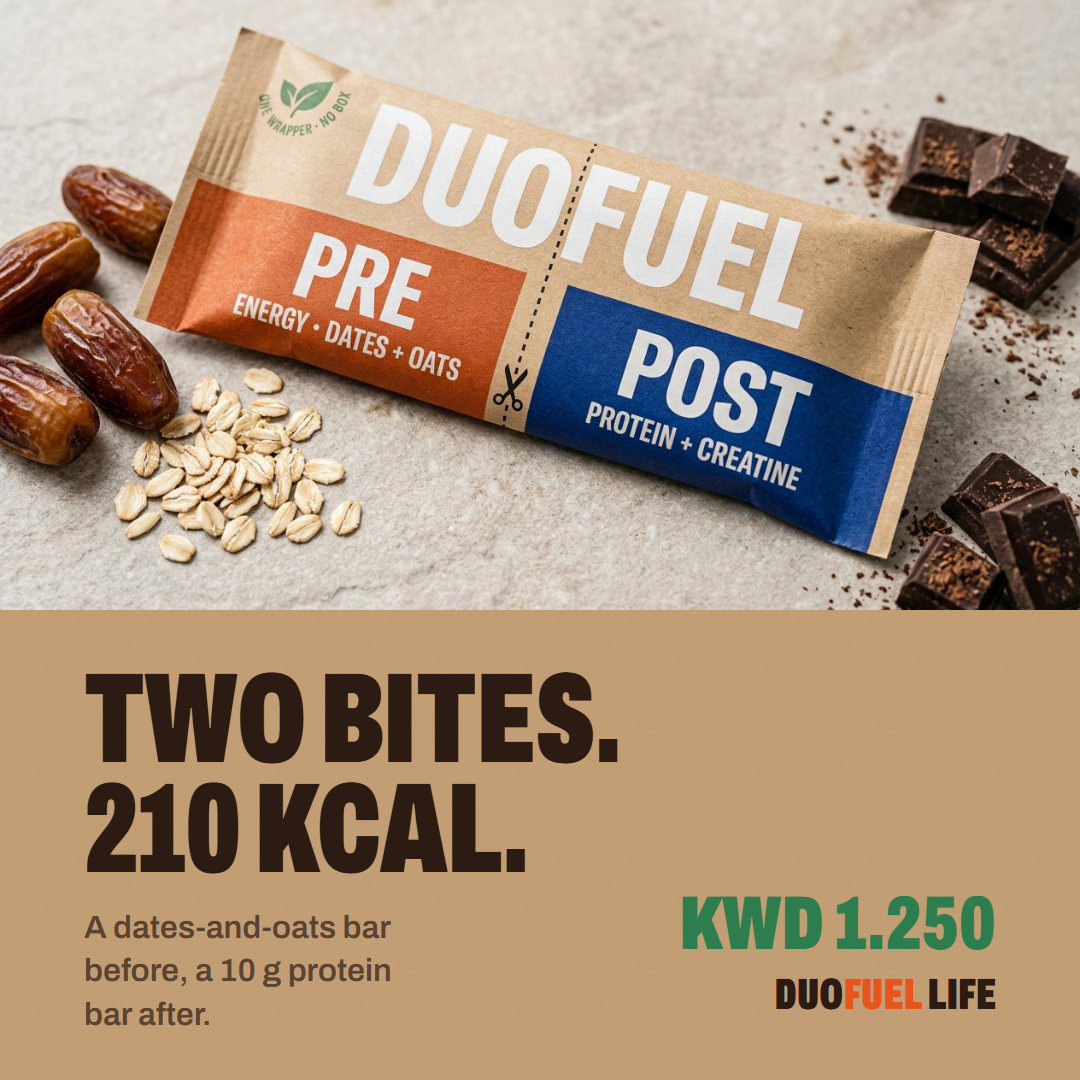
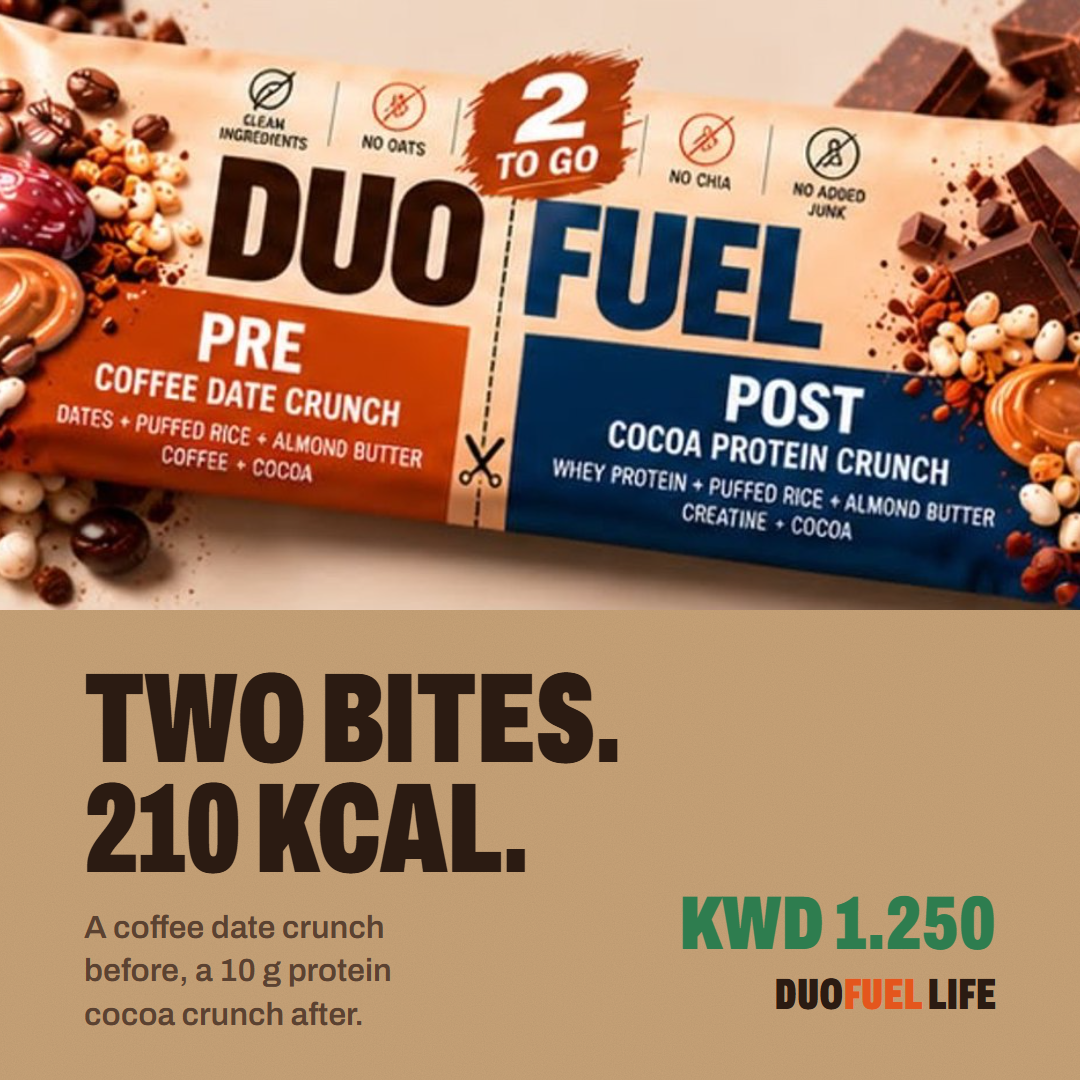
DUOFUEL concept: v7 recipe (Coffee Date Crunch / Cocoa Protein Crunch), new pack shot, caffeine and allergen notes

diff --git a/work/duofuel/index.html b/work/duofuel/index.html
@@ -4,7 +4,7 @@
   <meta charset="utf-8">
   <meta name="viewport" content="width=device-width, initial-scale=1, viewport-fit=cover">
   <title>DUOFUEL — Fuel before. Refuel after. · Concept by Q8Pixel</title>
-  <meta name="description" content="DUOFUEL is a concept snack for Kuwait in two packs, Gym and Life: one wrapper, two sealed bars, one before and one after.">
+  <meta name="description" content="DUOFUEL is a concept snack for Kuwait in two packs, Gym and Life: a Coffee Date Crunch bar before and a Cocoa Protein Crunch bar after, in one wrapper.">
   <meta name="robots" content="noindex">
   <meta name="theme-color" content="#c8a378">
   <meta name="color-scheme" content="light">
@@ -84,7 +84,7 @@
       <div class="hero-grid wrap">
         <div class="hero-half half-pre">
           <p class="hero-word" aria-hidden="true"><span data-i18n="hero.pre1">Fuel</span><span data-i18n="hero.pre2">before.</span></p>
-          <p class="hero-note"><span class="v-gym" data-i18n="hero.preNote">Dates and oats, 30–60 minutes before you train.</span><span class="v-life" data-i18n="hero.preNoteLife">A light dates-and-oats bite before a walk, a class or a long afternoon.</span></p>
+          <p class="hero-note"><span class="v-gym" data-i18n="hero.preNote">Dates, puffed rice and coffee, 30–60 minutes before you train.</span><span class="v-life" data-i18n="hero.preNoteLife">A light coffee-date crunch before a walk, a class or a long afternoon.</span></p>
         </div>
         <div class="hero-half half-post">
           <p class="hero-word" aria-hidden="true"><span data-i18n="hero.post1">Refuel</span><span data-i18n="hero.post2">after.</span></p>
@@ -103,7 +103,7 @@
             <div class="wrap-face">
               <span class="pf-brand">DUOFUEL</span>
               <span class="pf-name">PRE</span>
-              <span class="pf-sub"><span class="v-gym" data-i18n="pack.preSub">Energy · 30 g carbs</span><span class="v-life" data-i18n="pack.preSubLife">Dates + oats · 95 kcal</span></span>
+              <span class="pf-sub"><span class="v-gym" data-i18n="pack.preSub">Energy · 30 g carbs</span><span class="v-life" data-i18n="pack.preSubLife">Coffee date crunch · 95 kcal</span></span>
             </div>
           </div>
           <button class="tear" type="button" data-tear aria-pressed="false">
@@ -138,7 +138,7 @@
         <h2 id="range-title" class="h2" data-i18n="range.title">Two packs for two kinds of day</h2>
         <div class="range-grid">
           <article class="range-item range-gym">
-            <img src="img/pack-gym.jpg" width="905" height="648" loading="lazy" alt="DUOFUEL Gym pack in a black wrapper, held in a gloved hand in a gym" data-i18n-attr="alt:range.gymAlt">
+            <img src="img/pack-2togo.jpg" width="1440" height="527" loading="lazy" alt="DUOFUEL pack: PRE Coffee Date Crunch and POST Cocoa Protein Crunch in one wrapper" data-i18n-attr="alt:range.gymAlt">
             <div class="range-body">
               <h3>DUOFUEL Gym</h3>
               <p data-i18n="range.gymFor">For people who lift, run or play hard three or more times a week.</p>
@@ -153,7 +153,7 @@
             </div>
           </article>
           <article class="range-item range-life">
-            <img src="img/pack-sm.jpg" width="632" height="424" loading="lazy" alt="DUOFUEL Life pack in a kraft-paper wrapper beside dates, oats, almonds and dark chocolate" data-i18n-attr="alt:range.lifeAlt">
+            <img src="img/pack-2togo.jpg" width="1440" height="527" loading="lazy" alt="DUOFUEL pack: PRE Coffee Date Crunch and POST Cocoa Protein Crunch in one wrapper, beside dates, puffed rice, coffee beans, almonds and chocolate" data-i18n-attr="alt:range.lifeAlt">
             <div class="range-body">
               <h3>DUOFUEL Life</h3>
               <p data-i18n="range.lifeFor">For busy days, walks and classes, when you are counting calories.</p>
@@ -179,14 +179,14 @@
         <p class="lead"><span class="v-gym" data-i18n="day.lead">A typical after-work session in Kuwait, from the gym desk to the bin.</span><span class="v-life" data-i18n="day.leadLife">A workday with a walk at the end, without reaching for something sweet.</span></p>
         <ol class="timeline v-gym">
           <li><time>17:30</time><h3 data-i18n="day.s1">Pick up a pack</h3><p data-i18n="day.s1t">At the gym front desk, or from your Week Pack at home.</p></li>
-          <li class="is-pre"><time>17:35</time><h3 data-i18n="day.s2">Tear and eat PRE</h3><p data-i18n="day.s2t">Tear along the line. The orange bar gives 30 g of quick carbohydrate from dates and oats.</p></li>
+          <li class="is-pre"><time>17:35</time><h3 data-i18n="day.s2">Tear and eat PRE</h3><p data-i18n="day.s2t">Tear along the line. The orange bar gives 30 g of quick carbohydrate from dates and puffed rice, with a little coffee.</p></li>
           <li><time>18:15</time><h3 data-i18n="day.s3">Train</h3><p data-i18n="day.s3t">POST stays sealed in its half of the wrapper, in your bag.</p></li>
           <li class="is-post"><time>19:20</time><h3 data-i18n="day.s4">Eat POST</h3><p data-i18n="day.s4t">20 g protein and your daily 3 g of creatine, in one bar.</p></li>
           <li class="is-leaf"><time>19:25</time><h3 data-i18n="day.s5">Bin the wrapper</h3><p data-i18n="day.s5t">One wrapper, no box, no second wrapper.</p></li>
         </ol>
         <ol class="timeline v-life">
           <li><time>07:30</time><h3 data-i18n="day.l1">Pack in your bag</h3><p data-i18n="day.l1t">Picked up with the groceries at your co-op.</p></li>
-          <li class="is-pre"><time>10:30</time><h3 data-i18n="day.l2">PRE with your coffee</h3><p data-i18n="day.l2t">95 kcal of dates and oats to carry you to lunch.</p></li>
+          <li class="is-pre"><time>10:30</time><h3 data-i18n="day.l2">PRE with your coffee</h3><p data-i18n="day.l2t">95 kcal of dates, puffed rice and coffee to carry you to lunch.</p></li>
           <li><time>17:00</time><h3 data-i18n="day.l3">Walk, padel or a class</h3><p data-i18n="day.l3t">POST waits, sealed, in its half of the wrapper.</p></li>
           <li class="is-post"><time>18:00</time><h3 data-i18n="day.l4">POST instead of dessert</h3><p data-i18n="day.l4t">10 g protein at about 115 kcal.</p></li>
           <li class="is-leaf"><time>18:05</time><h3 data-i18n="day.s5">Bin the wrapper</h3><p data-i18n="day.s5t">One wrapper, no box, no second wrapper.</p></li>
@@ -201,25 +201,25 @@
         <div class="inside-split">
           <article class="spec spec-pre">
             <h3><span class="spec-tag">PRE</span> <span data-i18n="inside.preH">Before</span></h3>
-            <p data-i18n="inside.preText">Soft, chewy and quick to digest. Made from food-safe dates that were too small or too marked for the fruit shelf.</p>
+            <p data-i18n="inside.preText">Coffee Date Crunch: crisp, quick to digest, with a coffee kick. Made from food-safe dates that were too small or marked for the fruit shelf.</p>
             <dl class="facts v-gym">
               <div><dt data-i18n="f.weight">Bar weight</dt><dd>~45 g</dd></div>
               <div><dt data-i18n="f.carbs">Carbohydrate</dt><dd>30 g</dd></div>
               <div><dt data-i18n="f.energy">Energy</dt><dd>~170 kcal</dd></div>
-              <div><dt data-i18n="f.sugar">Added sugar</dt><dd>0 g</dd></div>
+              <div><dt data-i18n="f.caffeine">Caffeine (from coffee)</dt><dd>≈60 mg</dd></div>
             </dl>
             <dl class="facts v-life">
               <div><dt data-i18n="f.weight">Bar weight</dt><dd>~25 g</dd></div>
               <div><dt data-i18n="f.carbs">Carbohydrate</dt><dd>15 g</dd></div>
               <div><dt data-i18n="f.energy">Energy</dt><dd>~95 kcal</dd></div>
-              <div><dt data-i18n="f.sugar">Added sugar</dt><dd>0 g</dd></div>
+              <div><dt data-i18n="f.caffeine">Caffeine (from coffee)</dt><dd>≈35 mg</dd></div>
             </dl>
-            <p class="ingr"><strong data-i18n="f.ingr">Ingredients:</strong> <span data-i18n="inside.preIngr">surplus dates, rolled oats, almond butter, sea salt.</span></p>
+            <p class="ingr"><strong data-i18n="f.ingr">Ingredients:</strong> <span data-i18n="inside.preIngr">surplus Kuwaiti dates, puffed rice, almond butter, instant coffee, cocoa, honey or rice syrup, vanilla, salt.</span></p>
           </article>
           <div class="split-line" aria-hidden="true"></div>
           <article class="spec spec-post">
             <h3><span class="spec-tag">POST</span> <span data-i18n="inside.postH">After</span></h3>
-            <p data-i18n="inside.postText">Dense, dark and cocoa-rich. Protein when your body asks for it, plus the creatine many lifters already take as a powder.</p>
+            <p data-i18n="inside.postText">Cocoa Protein Crunch: crisp, cocoa-rich and filling. Protein when your body asks for it, plus the creatine many lifters already take as a powder.</p>
             <dl class="facts v-gym">
               <div><dt data-i18n="f.weight">Bar weight</dt><dd>~60 g</dd></div>
               <div><dt data-i18n="f.protein">Protein</dt><dd>20 g</dd></div>
@@ -232,10 +232,10 @@
               <div><dt data-i18n="f.creatine">Creatine monohydrate</dt><dd data-i18n="f.none">None</dd></div>
               <div><dt data-i18n="f.energy">Energy</dt><dd>~115 kcal</dd></div>
             </dl>
-            <p class="ingr"><strong data-i18n="f.ingr">Ingredients:</strong> <span class="v-gym" data-i18n="inside.postIngr">whey protein, dark chocolate, almonds, creatine monohydrate.</span><span class="v-life" data-i18n="inside.postIngrLife">whey protein, dark chocolate, almonds.</span></p>
+            <p class="ingr"><strong data-i18n="f.ingr">Ingredients:</strong> <span class="v-gym" data-i18n="inside.postIngr">whey protein, puffed rice, almond butter, cocoa, creatine monohydrate, rice syrup or honey, vanilla, salt; optional dark-chocolate drizzle.</span><span class="v-life" data-i18n="inside.postIngrLife">whey protein, puffed rice, almond butter, cocoa, rice syrup or honey, vanilla, salt (no creatine).</span></p>
           </article>
         </div>
-        <p class="fine" data-i18n="inside.fine">Contains milk, oats (gluten) and almonds. Values are prototype targets; final values follow lab testing. Not a meal replacement.</p>
+        <p class="fine" data-i18n="inside.fine">Contains milk and almonds, and caffeine from coffee: not for children or during pregnancy. No oats, no chia; puffed rice is naturally gluten-free but not yet certified. Values are prototype targets; final values follow lab testing. Not a meal replacement.</p>
       </div>
     </section>
 
@@ -248,7 +248,7 @@
           <ul class="promises">
             <li><svg class="icon" aria-hidden="true"><use href="#i-leaf"/></svg><div><h3 data-i18n="dates.p1">Rescued dates</h3><p data-i18n="dates.p1t">We report the kilograms of surplus dates used per 1,000 packs.</p></div></li>
             <li><svg class="icon" aria-hidden="true"><use href="#i-scale"/></svg><div><h3 data-i18n="dates.p2">One wrapper, no box</h3><p data-i18n="dates.p2t">We report the grams of packaging per pack, compared with two single bars.</p></div></li>
-            <li><svg class="icon" aria-hidden="true"><use href="#i-store"/></svg><div><h3 data-i18n="dates.p4">Made in Kuwait</h3><p data-i18n="dates.p4t">Mixed, baked and packed by a licensed food maker in Kuwait. The dates are Kuwaiti; whey and cocoa are imported, so we never say “100% Kuwaiti”.</p></div></li>
+            <li><svg class="icon" aria-hidden="true"><use href="#i-store"/></svg><div><h3 data-i18n="dates.p4">Made in Kuwait</h3><p data-i18n="dates.p4t">Mixed, pressed and packed by a licensed food maker in Kuwait. The dates are Kuwaiti; puffed rice, whey, coffee and cocoa are imported, so we never say “100% Kuwaiti”.</p></div></li>
             <li><svg class="icon" aria-hidden="true"><use href="#i-qr"/></svg><div><h3 data-i18n="dates.p3">Proof on every pack</h3><p data-i18n="dates.p3t">The QR code shows the batch, where the dates came from and the packaging weight.</p></div></li>
           </ul>
           <p class="facts-strip"><span><strong>102,213 t</strong> <span data-i18n="dates.f1">dates grown in Kuwait in 2024</span></span><span><strong>98.6 kg</strong> <span data-i18n="dates.f2">household food waste per person a year in Kuwait</span></span></p>
@@ -341,7 +341,7 @@
           <form class="vote" data-vote aria-labelledby="vote-title">
             <h3 id="vote-title" data-i18n="vote.title">Vote for the next flavour</h3>
             <label class="vote-opt"><input type="radio" name="flavour" value="cardamom"> <span data-i18n="vote.f1">Date &amp; cardamom (PRE)</span><bdi class="vote-n" data-n="cardamom"></bdi></label>
-            <label class="vote-opt"><input type="radio" name="flavour" value="coffee"> <span data-i18n="vote.f2">Chocolate &amp; Arabic coffee (POST)</span><bdi class="vote-n" data-n="coffee"></bdi></label>
+            <label class="vote-opt"><input type="radio" name="flavour" value="coffee"> <span data-i18n="vote.f2">Cocoa &amp; pistachio (POST)</span><bdi class="vote-n" data-n="coffee"></bdi></label>
             <label class="vote-opt"><input type="radio" name="flavour" value="saffron"> <span data-i18n="vote.f3">Date &amp; saffron (PRE)</span><bdi class="vote-n" data-n="saffron"></bdi></label>
             <label class="vote-opt"><input type="radio" name="flavour" value="vanilla"> <span data-i18n="vote.f4">Vanilla &amp; date caramel (POST)</span><bdi class="vote-n" data-n="vanilla"></bdi></label>
             <button class="btn btn-ink" type="submit" data-i18n="vote.go">Send my vote</button>
@@ -351,7 +351,7 @@
         <div>
           <h3 class="ff-title" data-i18n="ff.title">Free-from packs, in the plan for year 2–3</h3>
           <ul class="ff-list">
-            <li><span class="ff-name" data-i18n="ff.g">Gluten-free</span><span class="ff-swap"><span data-i18n="ff.gOut">Regular oats</span><span class="ff-arrow" aria-hidden="true"></span><span data-i18n="ff.gIn">certified gluten-free oats or puffed rice</span></span></li>
+            <li><span class="ff-name" data-i18n="ff.g">Gluten-free</span><span class="ff-swap"><span data-i18n="ff.gOut">Nothing: puffed rice is gluten-free</span><span class="ff-arrow" aria-hidden="true"></span><span data-i18n="ff.gIn">certified gluten-free puffed rice, made on a cleaned line</span></span></li>
             <li><span class="ff-name" data-i18n="ff.l">Lactose-free</span><span class="ff-swap"><span data-i18n="ff.lOut">Whey protein</span><span class="ff-arrow" aria-hidden="true"></span><span data-i18n="ff.lIn">pea and rice protein</span></span></li>
             <li><span class="ff-name" data-i18n="ff.n">Nut-free</span><span class="ff-swap"><span data-i18n="ff.nOut">Almonds</span><span class="ff-arrow" aria-hidden="true"></span><span data-i18n="ff.nIn">sunflower-seed butter and pumpkin seeds</span></span></li>
           </ul>
@@ -386,8 +386,9 @@
           <details><summary data-i18n="faq.q2">Is 3 g of creatine a day safe?</summary><p data-i18n="faq.a2">The International Society of Sports Nutrition calls 3–5 g a day effective and finds no compelling evidence of harm in healthy adults. If you have a medical condition, ask your doctor first.</p></details>
           <details><summary data-i18n="faq.q3">Does creatine work better after training?</summary><p data-i18n="faq.a3">We don't claim that. Taking it every day matters more than the hour. It sits in POST because that is when most people already have their protein.</p></details>
           <details><summary data-i18n="faq.q4">Why a paper wrapper?</summary><p data-i18n="faq.a4">One wrapper with two sealed compartments uses less material than two separately wrapped bars, and needs no box.</p></details>
-          <details><summary data-i18n="faq.q6">I have an allergy. Can I eat DUOFUEL?</summary><p data-i18n="faq.a6">Not yet: both packs contain milk, oats (gluten) and almonds, and the label says so. Gluten-free, lactose-free and nut-free versions are planned for year 2–3.</p></details>
-          <details><summary data-i18n="faq.q7">Where is DUOFUEL made?</summary><p data-i18n="faq.a7">In Kuwait, by a licensed food manufacturer working to our recipe. The dates come from Kuwaiti farms; the whey protein and cocoa are imported.</p></details>
+          <details><summary data-i18n="faq.q6">I have an allergy. Can I eat DUOFUEL?</summary><p data-i18n="faq.a6">Not yet: both packs contain milk and almonds, and PRE contains caffeine; the label says so. Gluten-free, lactose-free and nut-free versions are planned for year 2–3.</p></details>
+          <details><summary data-i18n="faq.q7">Where is DUOFUEL made?</summary><p data-i18n="faq.a7">In Kuwait, by a licensed food manufacturer working to our recipe. The dates come from Kuwaiti farms; the puffed rice, whey protein, coffee and cocoa are imported.</p></details>
+          <details><summary data-i18n="faq.q8">Is there caffeine?</summary><p data-i18n="faq.a8">Yes, from coffee in the PRE bar: about 60 mg in Gym and about 35 mg in Life, less than a typical cup of coffee. It is declared on the label; not for children or during pregnancy. POST has no coffee.</p></details>
           <details><summary data-i18n="faq.q5">Are surplus dates lower quality?</summary><p data-i18n="faq.a5">Only in looks. They pass the same food-safety tests as any date we use; they were just too small or marked for the fruit shelf.</p></details>
         </div>
       </div>

diff --git a/work/duofuel/app.js b/work/duofuel/app.js
@@ -30,15 +30,15 @@
     'hero.pre2': 'قبل.',
     'hero.post1': 'وتعويض',
     'hero.post2': 'بعد.',
-    'hero.preNote': 'تمر وشوفان، قبل التمرين بـ 30 إلى 60 دقيقة.',
-    'hero.preNoteLife': 'لقمة خفيفة من التمر والشوفان قبل المشي أو الحصة أو عصرية طويلة.',
+    'hero.preNote': 'تمر وأرز منفوخ وقهوة، قبل التمرين بـ 30 إلى 60 دقيقة.',
+    'hero.preNoteLife': 'لوح خفيف مقرمش بالتمر والقهوة قبل المشي أو الحصة أو عصرية طويلة.',
     'hero.postNote': 'بروتين و3 غ كرياتين، أول ما تخلص التمرين.',
     'hero.postNoteLife': '10 غ بروتين بدل الحلو، بحوالي 115 سعرة.',
     'var.label': 'اختر العلبة',
     'var.gymSub': 'للتمرين القوي',
     'var.lifeSub': 'ليوم أخف',
     'pack.preSub': 'طاقة · 30 غ كربوهيدرات',
-    'pack.preSubLife': 'تمر + شوفان · 95 سعرة',
+    'pack.preSubLife': 'تمر بالقهوة · 95 سعرة',
     'pack.postSub': '20 غ بروتين + 3 غ كرياتين',
     'pack.postSubLife': '10 غ بروتين · 115 سعرة',
     'pack.tear': 'اقطع هنا',
@@ -52,7 +52,8 @@
     'range.title': 'علبتين لنوعين من الأيام',
     'range.gymAlt': 'علبة DUOFUEL جيم بغلاف أسود في يد لابسة قفاز داخل نادي',
     'range.gymFor': 'لمن يرفع أوزان أو يركض أو يلعب بقوة ثلاث مرات أو أكثر في الأسبوع.',
-    'range.lifeAlt': 'علبة DUOFUEL لايف بغلاف ورق كرافت جنب تمر وشوفان ولوز وشوكولاتة داكنة',
+    'range.lifeAlt': 'علبة DUOFUEL: لوح PRE بالتمر والقهوة ولوح POST بالكاكاو والبروتين في غلاف واحد',
+    'range.gymAlt': 'علبة DUOFUEL: لوح PRE بالتمر والقهوة ولوح POST بالكاكاو والبروتين في غلاف واحد',
     'range.lifeFor': 'للأيام المزحومة والمشي والحصص، لمن يحسب السعرات.',
     'range.pickGym': 'اختر جيم',
     'range.pickLife': 'اختر لايف',
@@ -65,6 +66,7 @@
     'f.weight': 'وزن اللوح',
     'f.energy': 'السعرات',
     'f.sugar': 'سكر مضاف',
+    'f.caffeine': 'كافيين (من القهوة)',
     'f.ingr': 'المكونات:',
 
     'day.title': 'علبة واحدة، وتمرين مسائي واحد',
@@ -74,7 +76,7 @@
     'day.s1': 'خذ علبة',
     'day.s1t': 'من مكتب الاستقبال في النادي، أو من باقتك الأسبوعية في البيت.',
     'day.s2': 'اقطع وكُل PRE',
-    'day.s2t': 'اقطع على الخط. اللوح البرتقالي يعطيك 30 غ كربوهيدرات سريعة من التمر والشوفان.',
+    'day.s2t': 'اقطع على الخط. اللوح البرتقالي يعطيك 30 غ كربوهيدرات سريعة من التمر والأرز المنفوخ، مع شوية قهوة.',
     'day.s3': 'تمرّن',
     'day.s3t': 'POST يبقى مغلّق في نصّه من الغلاف، في شنطتك.',
     'day.s4': 'كُل POST',
@@ -84,7 +86,7 @@
     'day.l1': 'العلبة في شنطتك',
     'day.l1t': 'أخذتها مع أغراض الجمعية.',
     'day.l2': 'PRE مع قهوتك',
-    'day.l2t': '95 سعرة من التمر والشوفان توصّلك للغدا.',
+    'day.l2t': '95 سعرة من التمر والأرز المنفوخ والقهوة توصّلك للغدا.',
     'day.l3': 'مشي أو بادل أو حصة',
     'day.l3t': 'POST ينتظر مغلّق في نصّه من الغلاف.',
     'day.l4': 'POST بدل الحلو',
@@ -93,13 +95,13 @@
     'inside.title': 'داخل علبة جيم',
     'inside.titleLife': 'داخل علبة لايف',
     'inside.preH': 'قبل',
-    'inside.preText': 'طري وسهل الهضم. مصنوع من تمر سليم كان أصغر أو فيه علامات تمنع بيعه كفاكهة.',
-    'inside.preIngr': 'تمر فائض، شوفان، زبدة لوز، ملح بحري.',
+    'inside.preText': 'لوح التمر بالقهوة المقرمش: سريع الهضم مع لمسة قهوة. مصنوع من تمر سليم كان أصغر أو فيه علامات تمنع بيعه كفاكهة.',
+    'inside.preIngr': 'تمر كويتي فائض، أرز منفوخ، زبدة لوز، قهوة سريعة التحضير، كاكاو، عسل أو شراب أرز، فانيلا، ملح.',
     'inside.postH': 'بعد',
-    'inside.postText': 'كثيف وداكن وغني بالكاكاو. بروتين في الوقت اللي يحتاجه جسمك، ومعه الكرياتين اللي كثير من الرياضيين ياخذونه بودرة.',
-    'inside.postIngr': 'بروتين مصل الحليب، شوكولاتة داكنة، لوز، كرياتين مونوهيدرات.',
-    'inside.postIngrLife': 'بروتين مصل الحليب، شوكولاتة داكنة، لوز.',
-    'inside.fine': 'يحتوي على حليب وشوفان (جلوتين) ولوز. القيم أهداف أولية للنموذج، والقيم النهائية بعد فحص المختبر. ليس بديلاً عن وجبة.',
+    'inside.postText': 'لوح الكاكاو والبروتين المقرمش: غني بالكاكاو ويشبّع. بروتين في الوقت اللي يحتاجه جسمك، ومعه الكرياتين اللي كثير من الرياضيين ياخذونه بودرة.',
+    'inside.postIngr': 'بروتين مصل الحليب، أرز منفوخ، زبدة لوز، كاكاو، كرياتين مونوهيدرات، شراب أرز أو عسل، فانيلا، ملح؛ ورشّة شوكولاتة داكنة اختيارية.',
+    'inside.postIngrLife': 'بروتين مصل الحليب، أرز منفوخ، زبدة لوز، كاكاو، شراب أرز أو عسل، فانيلا، ملح (بدون كرياتين).',
+    'inside.fine': 'يحتوي على حليب ولوز، وكافيين من القهوة: مو مناسب للأطفال أو خلال الحمل. بدون شوفان وبدون شيا؛ الأرز المنفوخ خالي من الجلوتين طبيعياً بس مو معتمد بعد. القيم أهداف أولية للنموذج، والقيم النهائية بعد فحص المختبر. ليس بديلاً عن وجبة.',
 
     'dates.title': 'التمر في PRE انرفض بسبب شكله',
     'dates.lead': 'الكويت تنتج أكثر من 100 ألف طن تمر في السنة. بعضه صغير أو مشقوق أو فيه علامات فما ينباع كفاكهة، مع إنه صالح للأكل تماماً. نشتريه ونطحنه، ونقول لك كم استخدمنا بالضبط.',
@@ -165,14 +167,14 @@
     'next.lead': 'بعد الإطلاق، أنت تختار النكهات الجاية، ونسوي كل علبة بنسخة تناسب أصحاب الحساسية.',
     'vote.title': 'صوّت للنكهة الجاية',
     'vote.f1': 'تمر وهيل (PRE)',
-    'vote.f2': 'شوكولاتة وقهوة عربية (POST)',
+    'vote.f2': 'كاكاو وفستق (POST)',
     'vote.f3': 'تمر وزعفران (PRE)',
     'vote.f4': 'فانيلا وكراميل التمر (POST)',
     'vote.go': 'أرسل صوتي',
     'ff.title': 'علب خالية من مسببات الحساسية، في خطة السنة الثانية والثالثة',
     'ff.g': 'خالي من الجلوتين',
-    'ff.gOut': 'الشوفان العادي',
-    'ff.gIn': 'شوفان معتمد خالي من الجلوتين أو أرز منفوخ',
+    'ff.gOut': 'ولا شي: الأرز المنفوخ خالي من الجلوتين',
+    'ff.gIn': 'أرز منفوخ معتمد خالي من الجلوتين، على خط إنتاج نظيف',
     'ff.l': 'خالي من اللاكتوز',
     'ff.lOut': 'بروتين مصل الحليب',
     'ff.lIn': 'بروتين البازلاء والأرز',
@@ -181,7 +183,7 @@
     'ff.nIn': 'زبدة بذور دوار الشمس وبذور اليقطين',
     'ff.rule': 'ما نكتب «خالي من» على أي علبة إلا إذا انصنعت على خط إنتاج منفصل ونظيف، وكل دفعة نجحت في فحوصات المختبر للجلوتين والحليب والمكسرات.',
     'faq.q6': 'عندي حساسية. أقدر آكل DUOFUEL؟',
-    'faq.a6': 'مو الحين: العلبتين فيها حليب وشوفان (جلوتين) ولوز، ومكتوب على الملصق. النسخ الخالية من الجلوتين واللاكتوز والمكسرات في خطة السنة الثانية والثالثة.',
+    'faq.a6': 'مو الحين: العلبتين فيها حليب ولوز، ولوح PRE فيه كافيين، ومكتوب على الملصق. النسخ الخالية من الجلوتين واللاكتوز والمكسرات في خطة السنة الثانية والثالثة.',
     'nav.survey': 'الاستبيان',
     'survey.title': 'استبيان الألواح الصحية',
     'survey.lead': 'استبيان دقيقتين لمشروع تسويق جامعي عن الألواح الصحية في الكويت. بدون أسماء، والمشاركة اختيارية لمن عمرهم 18 سنة أو أكثر.',
@@ -191,9 +193,11 @@
     'foot.sign': 'مرحلتين. هدف واحد.',
     'made.kw': 'صُنع في الكويت، من تمر كويتي',
     'dates.p4': 'صُنع في الكويت',
-    'dates.p4t': 'يُخلط ويُخبز ويُغلّف عند مصنع أغذية مرخّص في الكويت. التمر كويتي، وبروتين مصل الحليب والكاكاو مستوردين، فما نقول «كويتي 100%».',
+    'dates.p4t': 'يُخلط ويُكبس ويُغلّف عند مصنع أغذية مرخّص في الكويت. التمر كويتي، والأرز المنفوخ وبروتين مصل الحليب والقهوة والكاكاو مستوردة، فما نقول «كويتي 100%».',
+    'faq.q8': 'فيه كافيين؟',
+    'faq.a8': 'إي، من القهوة في لوح PRE: حوالي 60 ملغ في جيم وحوالي 35 ملغ في لايف، أقل من كوب قهوة عادي. مكتوب على الملصق، ومو مناسب للأطفال أو خلال الحمل. لوح POST ما فيه قهوة.',
     'faq.q7': 'وين ينصنع DUOFUEL؟',
-    'faq.a7': 'في الكويت، عند مصنع أغذية مرخّص يشتغل على وصفتنا. التمر من مزارع كويتية، وبروتين مصل الحليب والكاكاو مستوردين.',
+    'faq.a7': 'في الكويت، عند مصنع أغذية مرخّص يشتغل على وصفتنا. التمر من مزارع كويتية، والأرز المنفوخ وبروتين مصل الحليب والقهوة والكاكاو مستوردة.',
     'foot.demo': 'DUOFUEL منتج تجريبي مصمم لمشروع تسويق جامعي، وغير معروض للبيع. الأسعار والدفعات والطلبات في هذي الصفحة للعرض فقط.',
     'foot.campaign': 'شوف حملة «لحظتين» التسويقية',
     'foot.credit': 'تصميم وتنفيذ',

diff --git a/work/duofuel/campaign/index.html b/work/duofuel/campaign/index.html
@@ -184,10 +184,10 @@
     <!-- 2 -->
     <figure class="item" data-ab="ig-life">
       <div class="frame"><div class="ab ab-ig-life" style="--w:1080;--h:1080">
-        <img src="../img/pack.jpg" alt="">
+        <img src="../img/pack-2togo.jpg" alt="" style="object-position:50% 50%">
         <div class="copy">
           <div class="cond" data-ar="لقمتين.<br>210 سعرة.">Two bites.<br>210 kcal.</div>
-          <p data-ar="لوح تمر وشوفان قبل، ولوح فيه 10 غ بروتين بعد.">A dates-and-oats bar before, a 10 g protein bar after.</p>
+          <p data-ar="لوح تمر بالقهوة قبل، ولوح كاكاو فيه 10 غ بروتين بعد.">A coffee date crunch before, a 10 g protein cocoa crunch after.</p>
           <div class="corner"><div class="price">KWD 1.250</div><div class="wm">DUO<b>FUEL</b>&nbsp;LIFE</div></div>
         </div>
       </div></div>
@@ -227,8 +227,8 @@
         <p class="lede" data-ar="اقطع العلبة الحين. البرتقالي لك الحين، والأزرق لبعد التمرين.">Tear a pack now. The orange bar is for now, the blue one for after.</p>
         <div class="cut"><div class="perf"></div><span class="knob"><svg><use href="#sc"/></svg></span><span data-ar="اقطع هنا">Tear here</span><div class="perf"></div></div>
         <div class="halves">
-          <div class="h pre"><div class="cond">PRE</div><p data-ar="تمر + شوفان<br>قبل التمرين">Dates + oats<br>before you train</p></div>
-          <div class="h post"><div class="cond">POST</div><p data-ar="بروتين<br>بعد التمرين">Protein<br>after you train</p></div>
+          <div class="h pre"><div class="cond">PRE</div><p data-ar="تمر بالقهوة<br>قبل التمرين">Coffee date crunch<br>before you train</p></div>
+          <div class="h post"><div class="cond">POST</div><p data-ar="كاكاو وبروتين<br>بعد التمرين">Cocoa protein crunch<br>after you train</p></div>
         </div>
         <div class="bottom"><div><span class="wm">DUO<b>FUEL</b></span><p class="made" data-ar="صُنع في الكويت، من تمر كويتي">Made in Kuwait, with Kuwaiti dates</p></div><div class="prices"><div><span data-ar="جيم">Gym</span> <span class="price">KWD 1.500</span></div><div><span data-ar="لايف">Life</span> <span class="price">KWD 1.250</span></div></div></div>
       </div></div>

diff --git a/work/duofuel/styles.css b/work/duofuel/styles.css
@@ -442,3 +442,5 @@ html[dir="rtl"] .kw-flag { direction: ltr; }
 .survey-wait { align-self: center; justify-self: center; text-align: center; font-weight: 700; color: var(--ink-2); max-width: 32ch; padding: 30px; }
 .survey-iframe { width: 100%; height: 1500px; border: 0; border-radius: 12px; background: #fff; }
 @media (min-width: 980px) { .survey-grid { grid-template-columns: .8fr 1.2fr; gap: 64px; } .survey-copy { position: sticky; top: calc(var(--header-h) + 24px); } }
+/* v7 pack shot is a wide banner: show it whole */
+.range-item img { aspect-ratio: auto; height: auto; object-fit: contain; background: #e9d0bc; }
